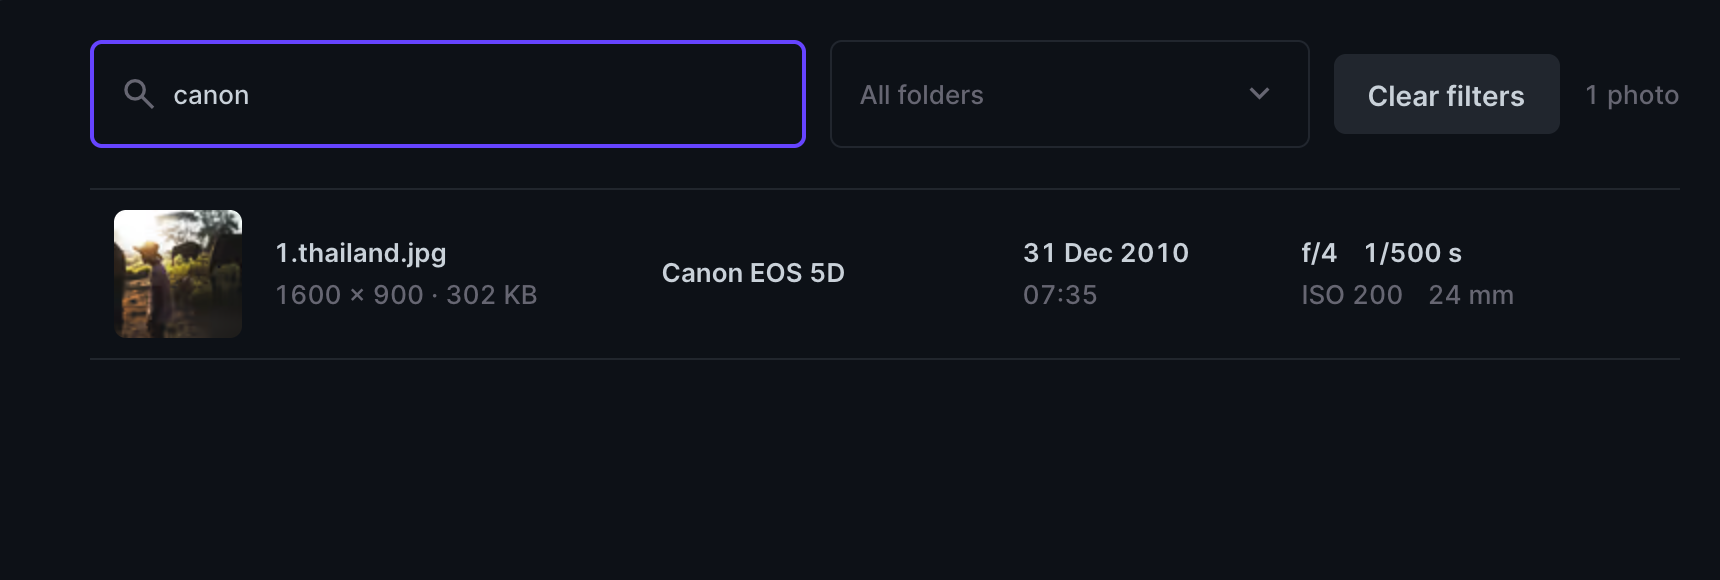
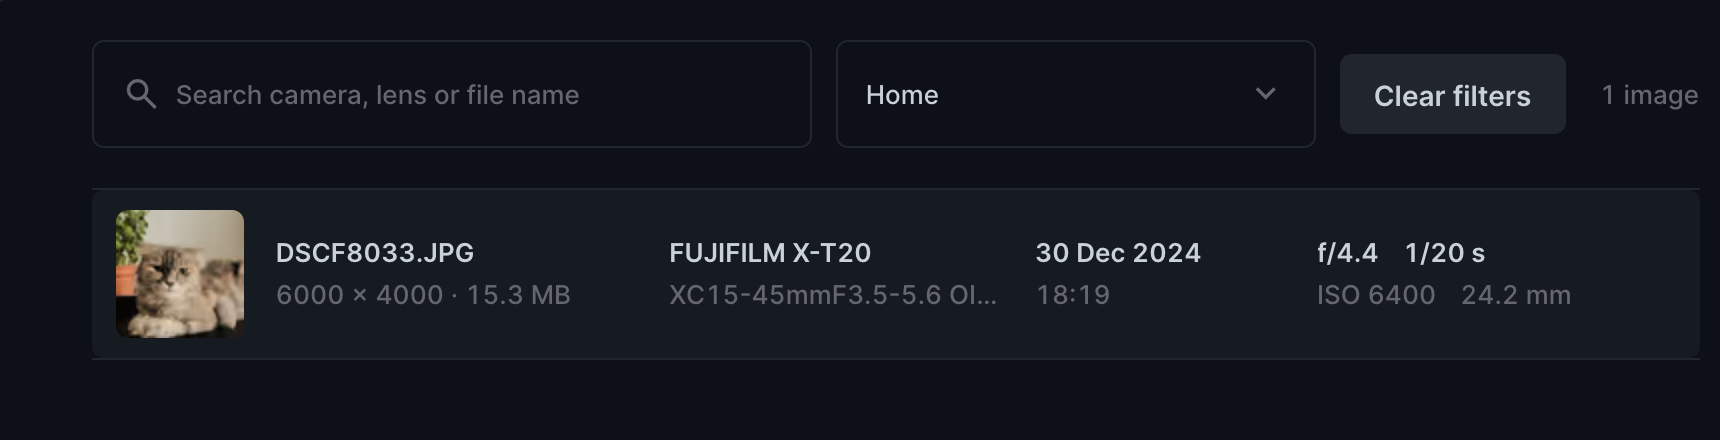
feat: improved components and pages

diff --git a/extensions/exif-extension/src/modules/exif/exif-page.vue b/extensions/exif-extension/src/modules/exif/exif-page.vue
@@ -1,10 +1,6 @@
 <template>
-	<private-view title="EXIF">
-		<template #title-outer:prepend>
-			<v-button class="header-icon" rounded disabled icon secondary>
-				<v-icon name="photo_camera" />
-			</v-button>
-		</template>
+	<private-view :title="NAV.images.name">
+		<template #title-outer:prepend><v-icon class="header-icon" :name="NAV.images.icon" /></template>
 
 		<template #navigation><exif-navigation /></template>
 
@@ -21,17 +17,17 @@
 				<v-select v-model="folder" :items="folderItems" show-deselect placeholder="All folders" />
 				<div class="tail">
 					<v-button v-if="filtering" secondary @click="clearFilters">Clear filters</v-button>
-					<span class="count">{{ total }} {{ total === 1 ? 'photo' : 'photos' }}</span>
+					<span class="count">{{ total }} {{ total === 1 ? 'image' : 'images' }}</span>
 				</div>
 			</div>
 
-			<v-info v-if="!loading && total === 0 && !filtering" icon="photo_camera" title="No photos with EXIF data yet">
+			<v-info v-if="!loading && total === 0 && !filtering" icon="photo_camera" title="No images with EXIF data yet">
 				Upload JPEG images in the file library and their EXIF data appears here.
 				<template #append>
 					<v-button to="/files">Open file library</v-button>
 				</template>
 			</v-info>
-			<v-info v-else-if="!loading && total === 0" icon="search_off" title="No photos match these filters">
+			<v-info v-else-if="!loading && total === 0" icon="search_off" title="No images match these filters">
 				Try a different search or choose another folder.
 			</v-info>
 			<template v-else>
@@ -101,6 +97,7 @@ import {
 import { computed, onMounted, ref, watch } from 'vue'
 import ExifDrawer from './exif-drawer.vue'
 import ExifNavigation from './exif-navigation.vue'
+import { NAV } from './nav'
 import { fetchExifPage, fetchFolders, PAGE_SIZE, thumbUrl } from './api'
 import { buildFilter, hasFilters } from './filter'
 import { type Folder, folderOptions, withDescendants } from './folders'
@@ -178,9 +175,9 @@ onMounted(async () => {
 </script>
 
 <style scoped>
+/* Same look as Directus's own pages: a bare icon in the theme's primary colour. */
 .header-icon {
-	--v-button-background-color-disabled: var(--theme--background-normal);
-	--v-button-color-disabled: var(--theme--foreground-subdued);
+	color: var(--theme--primary);
 }
 
 .exif-page {

diff --git a/extensions/exif-extension/src/modules/exif/about-page.vue b/extensions/exif-extension/src/modules/exif/about-page.vue
@@ -1,10 +1,6 @@
 <template>
-	<private-view title="About">
-		<template #title-outer:prepend>
-			<v-button class="header-icon" rounded disabled icon secondary>
-				<v-icon name="info" />
-			</v-button>
-		</template>
+	<private-view :title="NAV.about.name">
+		<template #title-outer:prepend><v-icon class="header-icon" :name="NAV.about.icon" /></template>
 
 		<template #navigation><exif-navigation /></template>
 
@@ -33,15 +29,16 @@
 <script setup lang="ts">
 import { buildAbout } from '@tepungpelita/exif-ui-core'
 import ExifNavigation from './exif-navigation.vue'
+import { NAV } from './nav'
 import pkg from '../../../package.json'
 
 const about = buildAbout(pkg)
 </script>
 
 <style scoped>
+/* Same look as Directus's own pages: a bare icon in the theme's primary colour. */
 .header-icon {
-	--v-button-background-color-disabled: var(--theme--background-normal);
-	--v-button-color-disabled: var(--theme--foreground-subdued);
+	color: var(--theme--primary);
 }
 
 .about {

diff --git a/extensions/exif-extension/src/modules/exif/exif-navigation.vue b/extensions/exif-extension/src/modules/exif/exif-navigation.vue
@@ -1,6 +1,6 @@
 <template>
 	<v-list nav>
-		<v-list-item v-for="item in items" :key="item.to" :to="item.to" exact>
+		<v-list-item v-for="item in Object.values(NAV)" :key="item.to" :to="item.to" exact>
 			<v-list-item-icon><v-icon :name="item.icon" /></v-list-item-icon>
 			<v-list-item-content><v-text-overflow :text="item.name" /></v-list-item-content>
 		</v-list-item>
@@ -8,8 +8,5 @@
 </template>
 
 <script setup lang="ts">
-const items = [
-	{ name: 'Photos', icon: 'photo_library', to: '/exif' },
-	{ name: 'About', icon: 'info', to: '/exif/about' },
-]
+import { NAV } from './nav'
 </script>

diff --git a/extensions/exif-extension/src/modules/exif/exif-drawer.vue b/extensions/exif-extension/src/modules/exif/exif-drawer.vue
@@ -50,7 +50,7 @@
 					<dt>Map</dt>
 					<dd><a :href="mapUrl(row.gpsLatitude, row.gpsLongitude)" target="_blank" rel="noopener">Open in OpenStreetMap</a></dd>
 				</dl>
-				<p v-else class="muted">This photo has no GPS data.</p>
+				<p v-else class="muted">This image has no GPS data.</p>
 			</section>
 
 			<section>

diff --git a/extensions/exif-extension/src/modules/exif/nav.ts b/extensions/exif-extension/src/modules/exif/nav.ts
@@ -1,0 +1,5 @@
+/** The sidebar entries. Each page takes its header icon and title from here, so they always match the sidebar. */
+export const NAV = {
+	images: { name: 'Images', icon: 'photo_library', to: '/exif' },
+	about: { name: 'About', icon: 'info', to: '/exif/about' },
+}

diff --git a/extensions/exif-extension/README.md b/extensions/exif-extension/README.md
@@ -5,37 +5,37 @@
 <h1 align="center">@tepungpelita/directus-exif-extension</h1>
 
 <p align="center">
-  See the camera, lens, settings and location behind every photo in your Directus file library.
+  See the camera, lens, settings and location behind every image in your Directus file library.
 </p>
 
 <p align="center">
-  <img src="docs/images/overview.png" alt="The EXIF module in Directus: a list of photos with camera, date and exposure, and a sidebar with Photos and About" width="900" />
+  <img src="docs/images/overview.png" alt="The EXIF module in Directus: a list of images with camera, date and exposure, and a sidebar with Images and About" width="900" />
 </p>
 
 This Directus extension reads the EXIF metadata of every image you upload, stores it next to the file in an `exif_metadata` collection, and adds an **EXIF** module to the admin where you can browse, search and inspect it.
 
 - **Automatic.** Upload or replace an image and its EXIF is stored. Nothing to configure.
-- **An EXIF module in the admin.** A photo list with thumbnails, a details drawer with every tag, search and a folder filter.
+- **An EXIF module in the admin.** An image list with thumbnails, a details drawer with every tag, search and a folder filter.
 - **Queryable from your code.** One regular collection, linked one-to-one with `directus_files`.
 
 ## Using the EXIF module
 
 Turn the module on once: **Settings → Settings → Module Bar**, switch **EXIF** on and save. Directus does not add new modules to a module bar you have already customized.
 
-### 1. Photos
+### 1. Images
 
-Choose **EXIF** in the module bar, then **Photos** in the sidebar. You see one row per photo, newest first: thumbnail, file name and size, camera and lens, date and time taken, the main exposure settings, and a pin if the photo has GPS.
+Choose **EXIF** in the module bar, then **Images** in the sidebar. You see one row per image, newest first: thumbnail, file name and size, camera and lens, date and time taken, the main exposure settings, and a pin if the image has GPS.
 
-### 2. Click a photo for everything we know about it
+### 2. Click an image for everything we know about it
 
 A drawer opens with the exposure readout (aperture, shutter, ISO, focal length), camera body, lens and date taken, the GPS position with a link to OpenStreetMap, and **every stored tag** with a filter box. **Open image**, **File library** and **Download JSON** sit above the readout. Press `Esc` to close it.
 
 <p align="center">
-  <img src="docs/images/details.png" alt="The details drawer: photo, exposure readout, camera, lens, date taken and location" width="420" />
+  <img src="docs/images/details.png" alt="The details drawer: image, exposure readout, camera, lens, date taken and location" width="420" />
   <img src="docs/images/tags.png" alt="The all-tags list in the drawer, filtered by typing" width="420" />
 </p>
 
-### 3. Find photos
+### 3. Find images
 
 - **Search** matches the camera make, camera model, lens, file name and title, ignoring case.
 - **Folder** narrows the list to a file library folder, including its subfolders.
@@ -43,15 +43,15 @@ A drawer opens with the exposure readout (aperture, shutter, ISO, focal length),
 Both filters work across every page of results.
 
 <p align="center">
-  <img src="docs/images/filters.png" alt="The search box and folder picker above the list, with one result for 'canon'" width="900" />
+  <img src="docs/images/filters.png" alt="The search box and folder picker above the list, narrowed to the Home folder" width="900" />
 </p>
 
 ### 4. Export
 
-- **Download JSON** (in the drawer) saves one photo with all its tags.
-- For many photos at once, use Directus's own export: **Content → Exif Metadata → Import / Export**.
+- **Download JSON** (in the drawer) saves one image with all its tags.
+- For many images at once, use Directus's own export: **Content → Exif Metadata → Import / Export**.
 
-> Exports contain GPS coordinates when a photo has them. Treat them like the photos themselves.
+> Exports contain GPS coordinates when an image has them. Treat them like the images themselves.
 
 ### 5. About
 
@@ -101,11 +101,11 @@ The collection is created automatically by the hook on startup; no migration is 
 curl -H "Authorization: Bearer $TOKEN" \
   "$DIRECTUS_URL/items/exif_metadata?filter[file][_eq]=<file-id>&limit=1"
 
-# Photos taken with a given camera, newest first, with the related file info
+# Images taken with a given camera, newest first, with the related file info
 curl -H "Authorization: Bearer $TOKEN" \
   "$DIRECTUS_URL/items/exif_metadata?filter[camera_make][_eq]=Canon&sort=-date_taken&fields=id,camera_model,date_taken,file.id,file.filename_download"
 
-# Only photos that have GPS coordinates
+# Only images that have GPS coordinates
 curl -H "Authorization: Bearer $TOKEN" \
   "$DIRECTUS_URL/items/exif_metadata?filter[gps_latitude][_nnull]=true&fields=file,gps_latitude,gps_longitude"
 ```

diff --git a/.changeset/directus-exif-module.md b/.changeset/directus-exif-module.md
@@ -4,7 +4,7 @@
 
 Add an **EXIF** module to the Directus admin to browse the stored EXIF data.
 
-- A photo list with thumbnails, camera, lens, date taken and exposure, newest first.
+- An image list with thumbnails, camera, lens, date taken and exposure, newest first.
 - A details drawer with the exposure readout, camera, lens, location, every stored tag (with a filter box), and a JSON download.
 - Search by camera, lens or file name, and a folder filter that includes subfolders.
 - An About page. The module is only shown to roles that can read `exif_metadata`.
